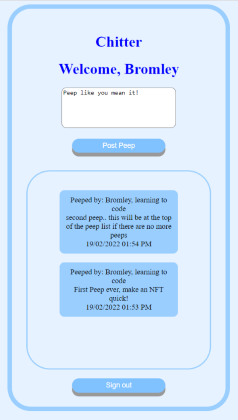
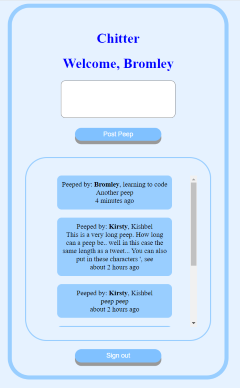
Amended presentation to show time ago, rather than time

diff --git a/app.rb b/app.rb
@@ -6,6 +6,10 @@ require './lib/user'
 require './database_connection_setup'
 require 'sinatra/flash'
 
+require 'action_view'
+
+include ActionView::Helpers::DateHelper
+
 class Chitter < Sinatra::Base
 
   configure :development do
